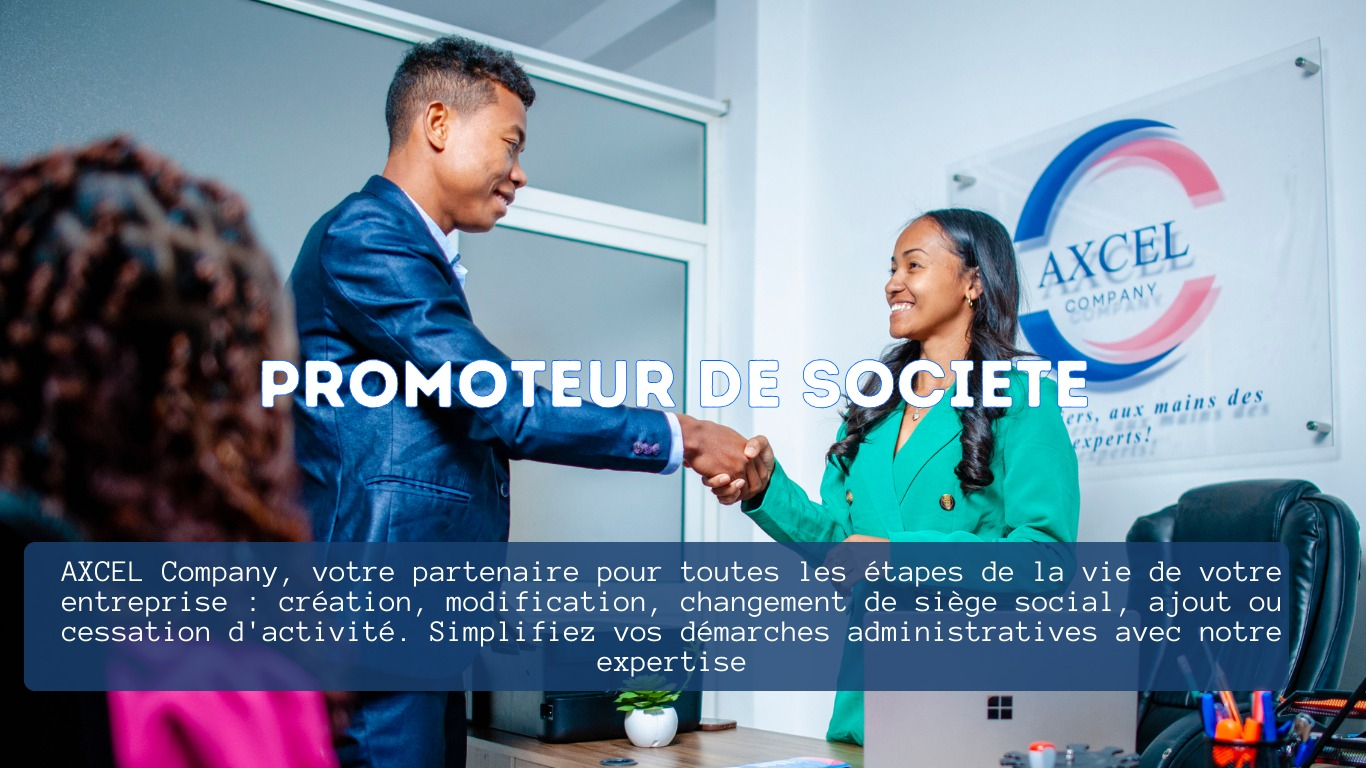
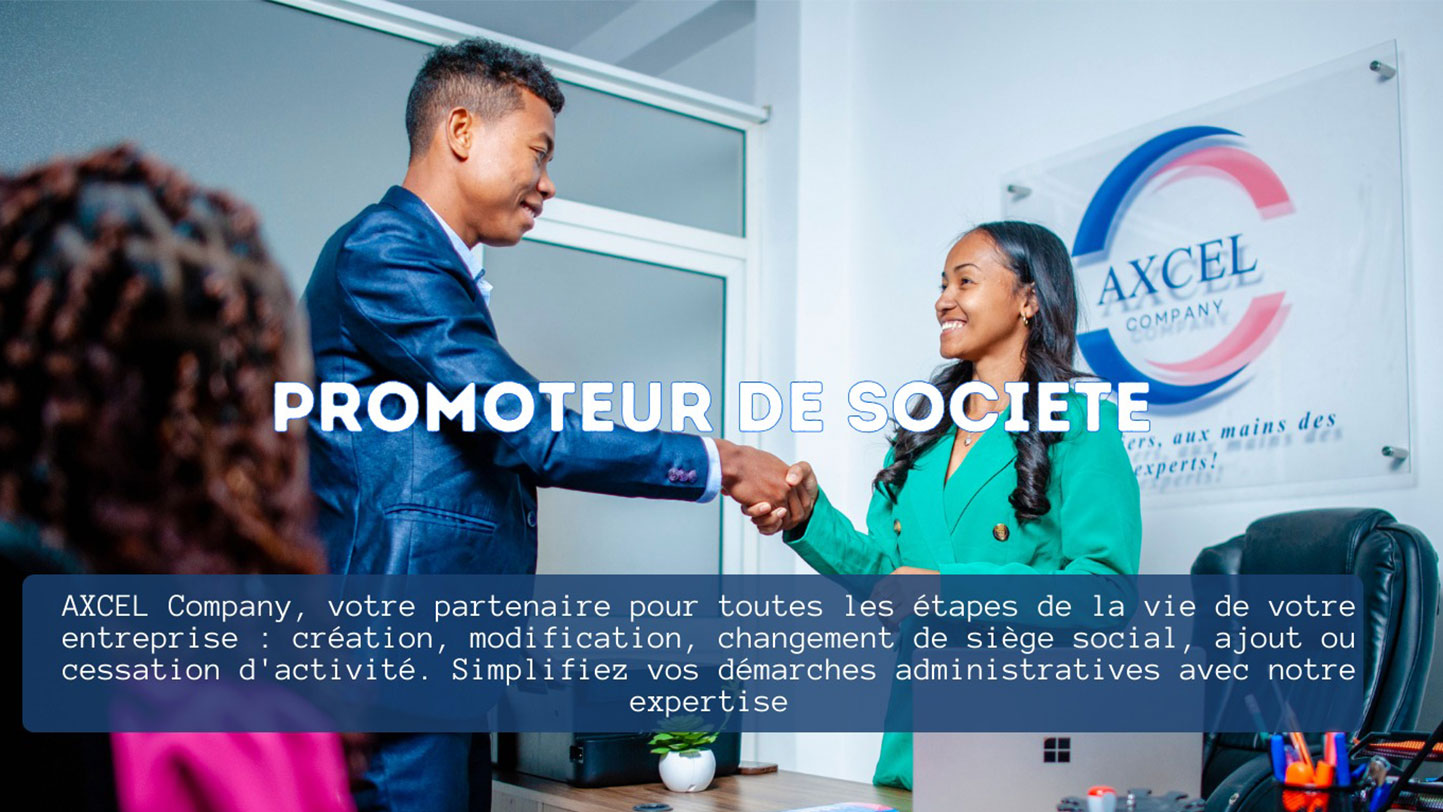
Updates files: topbar, heroslider, global.css, added file about-section.jpg, added section about

diff --git a/app/components/header/navbar/navbar.tsx b/app/components/header/navbar/navbar.tsx
@@ -3,39 +3,33 @@ export default function NavBar(){
     return(
          <>
             <nav className="navbar navbar-expand-lg axel-bg-orange">
-                
                 <div className="container">
-                    <Link className="nav-link text-white fw-bolder fs-5 d-block d-lg-none" href="#">Accueil</Link> 
-                    <button className="navbar-toggler" type="button" data-bs-toggle="collapse" data-bs-target="#navbarSupportedContent" aria-controls="navbarSupportedContent" aria-expanded="false" aria-label="Toggle navigation">
-                    <span className="navbar-toggler-icon"></span>
+                    <Link className="navbar-brand text-white fw-bolder fs-5 d-block d-lg-none" href="#">Accueil</Link>
+                    <button className="navbar-toggler text-white" type="button" data-bs-toggle="collapse" data-bs-target="#navbarSupportedContent" aria-controls="navbarSupportedContent" aria-expanded="false" aria-label="Toggle navigation">
+                        <span className="navbar-toggler-icon text-white"></span>
                     </button>
                     <div className="collapse navbar-collapse" id="navbarSupportedContent">
-                    <ul className="navbar-nav me-auto mb-2 mb-lg-0">
-                        <li className="nav-item dropdown d-inline-flex align-items-center ">
-                            <Link className="nav-link text-white fw-bolder fs-5" href="#" >
+                        <ul className="navbar-nav me-auto mb-2 mb-lg-0">
+                        
+                        <li className="nav-item dropdown">
+                            <Link className="nav-link dropdown-toggle text-white fw-bolder fs-5" href="#" id="navbarDropdown" role="button" data-bs-toggle="dropdown" aria-expanded="false">
                                 Conseil et assistance
-                            </Link> 
-                            <Link href="#" type="button" className=" fs-5 text-white dropdown-toggle dropdown-toggle-split d-flex align-items-center" id="navbarDropdownMenuLink" role="button" data-bs-toggle="dropdown" aria-expanded="false">
-                                <span className="visually-hidden">Toggle Dropdown</span>
                             </Link>
-                            <ul className="dropdown-menu top-50 mt-4">
-                                <li><Link className="dropdown-item" href="#">Conseil en création de société</Link></li>
+                            <ul className="dropdown-menu" aria-labelledby="navbarDropdown">
+                                <li><Link className="dropdown-item" href="#">Conseil en création<br/>de société</Link></li>
                                 <li><hr className="dropdown-divider" /></li>
-                                <li><Link className="dropdown-item" href="#">Assistance à la modification de société</Link></li>
+                                <li><Link className="dropdown-item" href="#">Assistance à la modification<br/>de société</Link></li>
                                 <li><hr className="dropdown-divider" /></li>
-                                <li><Link className="dropdown-item" href="#">Assistance en formalisation d'entreprise</Link></li>
+                                <li><Link className="dropdown-item" href="#">Assistance en formalisation<br/>d'entreprise</Link></li>
                                 <li><hr className="dropdown-divider" /></li>
-                                <li><Link className="dropdown-item" href="#">Consultation stratégique pour entrepreneurs</Link></li>
+                                <li><Link className="dropdown-item" href="#">Consultation stratégique<br/>pour entrepreneurs</Link></li>
                             </ul>
                         </li>
-                        <li className="nav-item dropdown d-inline-flex align-items-center ">
-                            <Link className="nav-link text-white fw-bolder fs-5" href="#" >
-                                Création
-                            </Link> 
-                            <Link href="#" type="button" className=" fs-5 text-white dropdown-toggle dropdown-toggle-split d-flex align-items-center" id="navbarDropdownMenuLink" role="button" data-bs-toggle="dropdown" aria-expanded="false">
-                                <span className="visually-hidden">Toggle Dropdown</span>
+                        <li className="nav-item dropdown">
+                            <Link className="nav-link dropdown-toggle text-white fw-bolder fs-5" href="#" id="navbarDropdown" role="button" data-bs-toggle="dropdown" aria-expanded="false">
+                            Création
                             </Link>
-                            <ul className="dropdown-menu top-50 mt-4">
+                            <ul className="dropdown-menu" aria-labelledby="navbarDropdown">
                                 <li><Link className="dropdown-item" href="#">SARL / SARLU</Link></li>
                                 <li><hr className="dropdown-divider" /></li>
                                 <li><Link className="dropdown-item" href="#">SA / SAU</Link></li>
@@ -51,33 +45,27 @@ export default function NavBar(){
                                 <li><Link className="dropdown-item" href="#">OUVERTURE SUCCURSALE / FILIALE</Link></li>
                             </ul>
                         </li>
-                        <li className="nav-item dropdown d-inline-flex align-items-center ">
-                            <Link className="nav-link text-white fw-bolder fs-5" href="#" >
-                            Service de coursier
-                            </Link> 
-                            <Link href="#" type="button" className=" fs-5 text-white dropdown-toggle dropdown-toggle-split d-flex align-items-center" id="navbarDropdownMenuLink" role="button" data-bs-toggle="dropdown" aria-expanded="false">
-                                <span className="visually-hidden">Toggle Dropdown</span>
+                        <li className="nav-item dropdown">
+                            <Link className="nav-link dropdown-toggle text-white fw-bolder fs-5" href="#" id="navbarDropdown" role="button" data-bs-toggle="dropdown" aria-expanded="false">
+                                Service de coursier
                             </Link>
-                            <ul className="dropdown-menu top-50 mt-4">
-                                <li><Link className="dropdown-item" href="#">Récupération diplôme, relevé de note, équivalence..</Link></li>
+                            <ul className="dropdown-menu" aria-labelledby="navbarDropdown">
+                                <li><Link className="dropdown-item" href="#">Récupération diplôme,<br/>relevé de note, équivalence..</Link></li>
                                 <li><hr className="dropdown-divider" /></li>
-                                <li><Link className="dropdown-item" href="#">Récupération / traduction acte de naissance, acte de mariage, ...</Link></li>
+                                <li><Link className="dropdown-item" href="#">Récupération /traduction<br/>acte de naissance,<br/>acte de mariage, ...</Link></li>
                                 <li><hr className="dropdown-divider" /></li>
-                                <li><Link className="dropdown-item" href="#">Récupération des certificatq de mise en commerce</Link></li>
+                                <li><Link className="dropdown-item" href="#">Récupération des certificats<br/>de mise en commerce</Link></li>
                                 <li><hr className="dropdown-divider" /></li>
-                                <li><Link className="dropdown-item" href="#">Récupération des certificats de consommabilité</Link></li>
+                                <li><Link className="dropdown-item" href="#">Récupération des certificats<br/>de consommabilité</Link></li>
                                 <li><hr className="dropdown-divider" /></li>
-                                <li><Link className="dropdown-item" href="#">Toutes enregistrement, certifications</Link></li>
+                                <li><Link className="dropdown-item" href="#">Toutes enregistrement,<br/>certifications</Link></li>
                             </ul>
                         </li>
-                        <li className="nav-item">
-                            <Link className="nav-link text-white fw-bolder fs-5" href="#" >
-                              A propos de nous
-                            </Link>                            
-                        </li>
                         
-                    </ul>
-                    
+                        <li className="nav-item">
+                            <Link className="nav-link text-white fw-bolder fs-5" href="#">A propos de nous</Link>
+                        </li>
+                        </ul>           
                     </div>
                 </div>
             </nav>

diff --git a/app/components/header/topbar/topbar.tsx b/app/components/header/topbar/topbar.tsx
@@ -11,36 +11,36 @@ export default function Topbar(){
             <div className="px-3 py-2 bg-white text-dark">
                 <div className="container">
                     <div className="d-flex flex-wrap align-items-center justify-content-center justify-content-lg-start">
-                    <Link href="/" className="d-flex align-items-center my-2 my-lg-0 me-lg-auto text-white text-decoration-none">
-                        <Image
-                            src="/axcel-company-logo-transparent-99-104-.png"
-                            alt="Picture of the author"
-                            width={96}
-                            height={100}                             
-                        />
-                        <p className="text-warning fs-4 m-2">Vos dossiers,<br/>aux mains des experts</p>
-                    </Link>
+                        <Link href="/" className="d-flex align-items-center my-2 my-lg-0 me-lg-auto text-white text-decoration-none">
+                            <Image
+                                src="/axcel-company-logo-transparent-99-104-.png"
+                                alt="Picture of the author"
+                                width={96}
+                                height={100}                             
+                            />
+                            <p className="text-warning fs-4 m-2">Vos dossiers,<br/>aux mains des experts</p>
+                        </Link>
 
-                    <ul className="nav col-12 col-lg-auto my-2 justify-content-center my-md-0 text-small text-dark">
-                        <li>
-                            <a  className="nav-link text-dark">          
-                        
-                                <PhoneIcon className="axel-top-icon"/> +261 38 73 066 32 / 034 11 918 40
-                            </a>
-                        </li>
-                        <li>
-                            <Link href="mailto:contact@axcel.mg" className="nav-link text-dark">
-                                <EnvelopeIcon className="axel-top-icon"/> Email : contact@axcel.mg
-                            </Link>
-                        </li>
-                        <li className="pe-3">
-                         <SocialIcon network="facebook" url="https://web.facebook.com/profile.php?id=100092397681842&mibextid=ZbWKwL&_rdc=1&_rdr" target="_blank" className="axel-social"/>
-                        </li> 
-                        <li>
-                            <SocialIcon network="whatsapp" url="https://wa.me/387306632" target="_blank" className="axel-social"/>
-                        </li>              
-                        
-                    </ul>
+                        <ul className="nav d-none d-md-flex col-12 col-lg-auto my-2 justify-content-center my-md-0 text-small text-dark">
+                            <li>
+                                <a  className="nav-link text-dark">          
+                            
+                                    <PhoneIcon className="axel-top-icon"/> +261 38 73 066 32 / 034 11 918 40
+                                </a>
+                            </li>
+                            <li>
+                                <Link href="mailto:contact@axcel.mg" className="nav-link text-dark">
+                                    <EnvelopeIcon className="axel-top-icon"/> Email : contact@axcel.mg
+                                </Link>
+                            </li>
+                            <li className="pe-3">
+                            <SocialIcon network="facebook" url="https://web.facebook.com/profile.php?id=100092397681842&mibextid=ZbWKwL&_rdc=1&_rdr" target="_blank" className="axel-social"/>
+                            </li> 
+                            <li>
+                                <SocialIcon network="whatsapp" url="https://wa.me/387306632" target="_blank" className="axel-social"/>
+                            </li>              
+                            
+                        </ul>
                     </div>
                 </div>
             </div>

diff --git a/app/components/footer/footer.tsx b/app/components/footer/footer.tsx
@@ -6,7 +6,7 @@ export default function Footer(){
             <footer className="container-fluid bg-primary text-white">
                 <div className="container">
                     <div className="row">
-                        <div className="col-12 col-md-6 col-lg-3 d-flex flex-column mb-3 py-5">
+                        <div className="col-12 col-md-6 col-lg-3 d-flex flex-column mb-3 py-0 py-lg-5">
                         <Link href="/" className="d-flex align-items-center my-2 my-lg-0 me-lg-auto text-white text-decoration-none">
                                 <Image
                                     src="/axcel-company-logo-transparent-99-104-.png"
@@ -17,7 +17,7 @@ export default function Footer(){
                             </Link>
                             <p className="m-0 py-2">Société dédiée à fournir des services professionnels aux entreprises, création, modification, conseil et assistance administrative</p>
                         </div>
-                        <div className="col-12 col-md-6 col-lg-3 d-flex flex-column mb-3 py-5">
+                        <div className="col-12 col-md-6 col-lg-3 d-flex flex-column mb-3 py-0 py-lg-5">
                             <h3 className="text-warning">Liens rapides</h3>
                             <ul className="nav flex-column">
                                 <li className="nav-item">
@@ -34,7 +34,7 @@ export default function Footer(){
                                 </li>
                             </ul>
                         </div>
-                        <div className="col-12 col-md-6 col-lg-3 d-flex flex-column mb-3 py-5">
+                        <div className="col-12 col-md-6 col-lg-3 d-flex flex-column mb-3 py-0 py-lg-5">
                             <h3 className="text-warning">Info contact</h3>
                             <ul className="nav flex-column">
                                 <li className="nav-item">
@@ -48,7 +48,7 @@ export default function Footer(){
                                 </li>                                
                             </ul>
                         </div>
-                        <div className="col-12 col-md-6 col-lg-3 d-flex flex-column mb-3 py-5">
+                        <div className="col-12 col-md-6 col-lg-3 d-flex flex-column mb-3 py-0 py-lg-5">
                             <h3 className="text-warning">Newsletter</h3>
                             <p className="px-3">Suivre nos actualités via notre  newsletter et rester à jour de nouvelles offres et actualités pertinentes</p>
                                 <div className="input-group mb-3">
@@ -57,9 +57,11 @@ export default function Footer(){
                                 </div>
                         </div>
                     </div>
-                    <div className="row ">
-                        <div className="d-flex justify-content-center align-items-center py-4">
-                            <p className="text-white m-0">© 2024 Axcel Company - All rights reserved.</p>
+                    <div className="row">
+                        <div className="col">
+                            <div className="d-flex justify-content-center align-items-center py-2 py-lg-4">
+                                <p className="text-white">© 2024 Axcel Company - All rights reserved.</p>
+                            </div>
                         </div>
                         
                     </div>

diff --git a/app/components/slider/heroSlider.tsx b/app/components/slider/heroSlider.tsx
@@ -1,28 +1,29 @@
 
 export default function heroSlider(){
     return(
-        <>          
-            <div id="carouselExampleControls" className="carousel slide" data-bs-ride="carousel">
-            <div className="carousel-inner">
-                <div className="carousel-item active">
-                <img src="/axcel-slider-1.jpg" className="d-block w-100 h-50" alt="..." />
-                </div>
-                <div className="carousel-item">
-                <img src="/axcel-slider-2.jpg" className="d-block w-100 h-50" alt="..." /> 
-                </div>
-                <div className="carousel-item">
-                <img src="/axcel-slider-3.jpg" className="d-block w-100 h-50" alt="..." />
-                </div>
-            </div>
-            <button className="carousel-control-prev" type="button" data-bs-target="#carouselExampleControls" data-bs-slide="prev">
-                <span className="carousel-control-prev-icon" aria-hidden="true"></span>
-                <span className="visually-hidden">Previous</span>
-            </button>
-            <button className="carousel-control-next" type="button" data-bs-target="#carouselExampleControls" data-bs-slide="next">
-                <span className="carousel-control-next-icon" aria-hidden="true"></span>
-                <span className="visually-hidden">Next</span>
-            </button>
-            </div>        
+        <>     
+                
+                <div id="carouselExampleControls" className="carousel slide" data-bs-ride="carousel">
+                    <div className="carousel-inner">
+                        <div className="carousel-item active">
+                        <img src="/axcel-slider-1.jpg" className="d-block w-100 img-fluid" alt="..." />
+                        </div>
+                        <div className="carousel-item">
+                        <img src="/axcel-slider-2.jpg" className="d-block w-100  img-fluid" alt="..." /> 
+                        </div>
+                        <div className="carousel-item ">
+                        <img src="/axcel-slider-3.jpg" className="d-block w-100  img-fluid" alt="..." />
+                        </div>
+                    </div>
+                    <button className="carousel-control-prev" type="button" data-bs-target="#carouselExampleControls" data-bs-slide="prev">
+                        <span className="carousel-control-prev-icon" aria-hidden="true"></span>
+                        <span className="visually-hidden">Previous</span>
+                    </button>
+                    <button className="carousel-control-next" type="button" data-bs-target="#carouselExampleControls" data-bs-slide="next">
+                        <span className="carousel-control-next-icon" aria-hidden="true"></span>
+                        <span className="visually-hidden">Next</span>
+                    </button>
+                </div>                   
         </>
     );
 }

diff --git a/app/components/about/aboutSection.tsx b/app/components/about/aboutSection.tsx
@@ -1,0 +1,30 @@
+import { CheckCircleIcon } from '@heroicons/react/24/solid';
+export default function aboutSection(){
+    return(
+        <>
+            <div className="container-fluid">
+                <div className="row">
+                    <div className="col-m-12 col-lg-6 p-0">
+                        <img src="/about-section.jpg" alt="A propos" className="img-fluid"/>
+                    </div>
+                    <div className="col-m-12 col-lg-6">
+                        <div className="d-flex flex-column p-5">
+                            <h3 className="text-primary fs-5">A propos de nous</h3>
+                            <h2 className="axel-text-blue fs-2 fw-bolder">Créez votre société en toute sérénité, nous nous occupons de tout</h2>
+                            <p>Axcel Company est une société dédiée à fournir des services professionnels aux entreprises. Nous accompagnons depuis 2022 les entrepreneurs, les investisseurs dans la formalisation de leurs entreprises.</p>
+                            <div className="axel-box d-flex">
+                                <div className="axel-box-icon">
+                                    <CheckCircleIcon/>
+                                </div>
+                                <div className="axel-box-content">
+                                    <p>Nous assistons les étrangers envisageant d’investir à Madagascar.</p>
+                                </div>
+
+                            </div>
+                        </div>
+                    </div>
+                </div>
+            </div>
+        </>
+    );
+}

diff --git a/app/page.tsx b/app/page.tsx
@@ -1,10 +1,12 @@
 import HeroSlider from "./components/slider/heroSlider";
+import AboutSection from "./components/about/aboutSection";
 export default function Page() {
 
     return (
         
             <>
                 <HeroSlider />
+                <AboutSection />
             </>
     );
 

diff --git a/app/global.css b/app/global.css
@@ -35,3 +35,6 @@ a, .nav,.dropdown-item {
         pointer-events: none !important;
     }
 }
+.axel-hero-slider{
+    height: 700px !important;
+}
